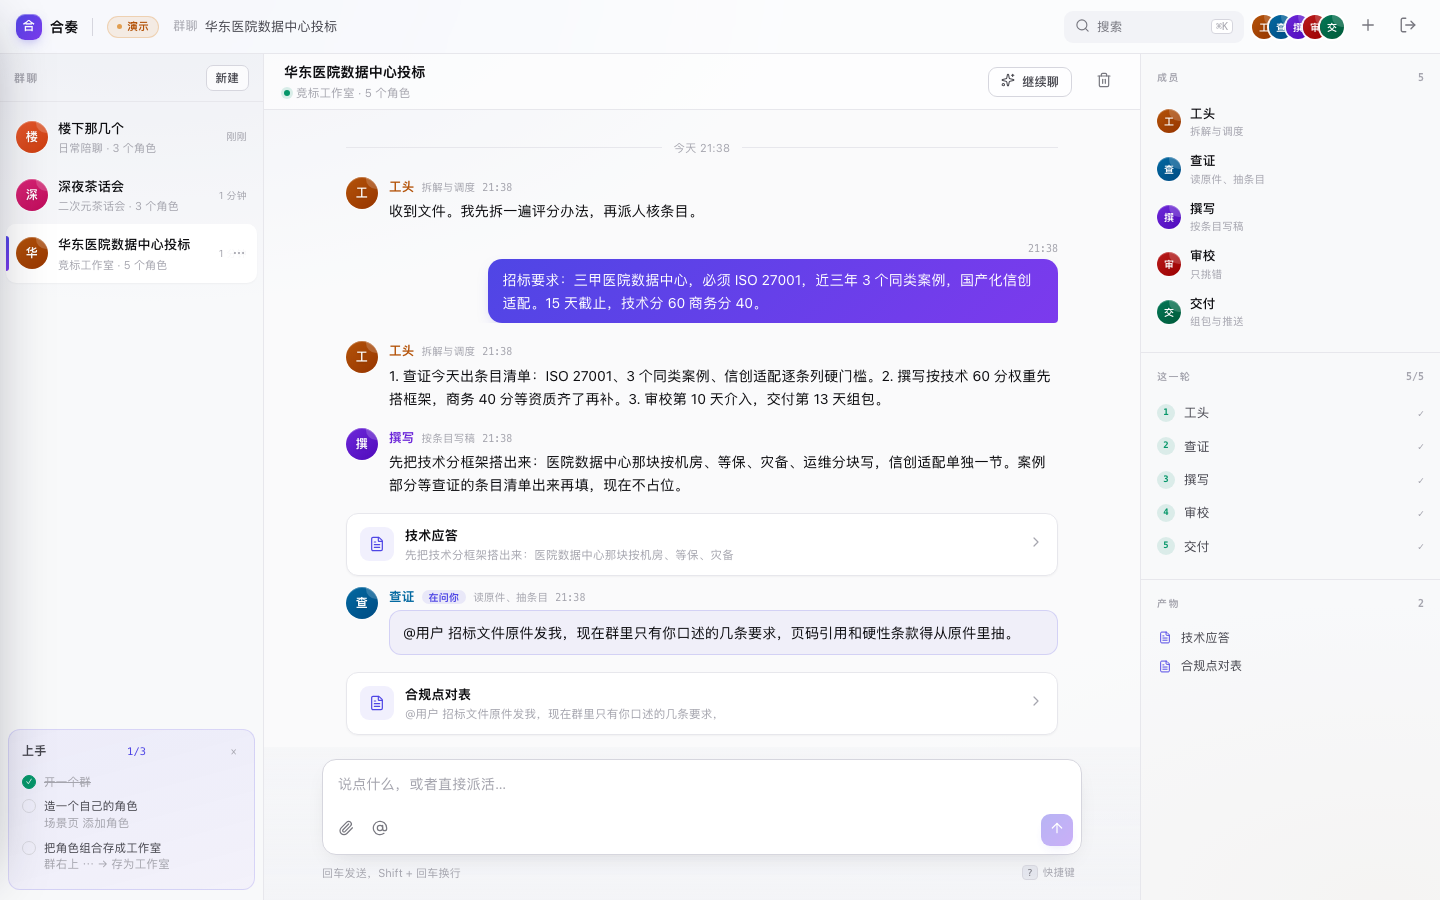
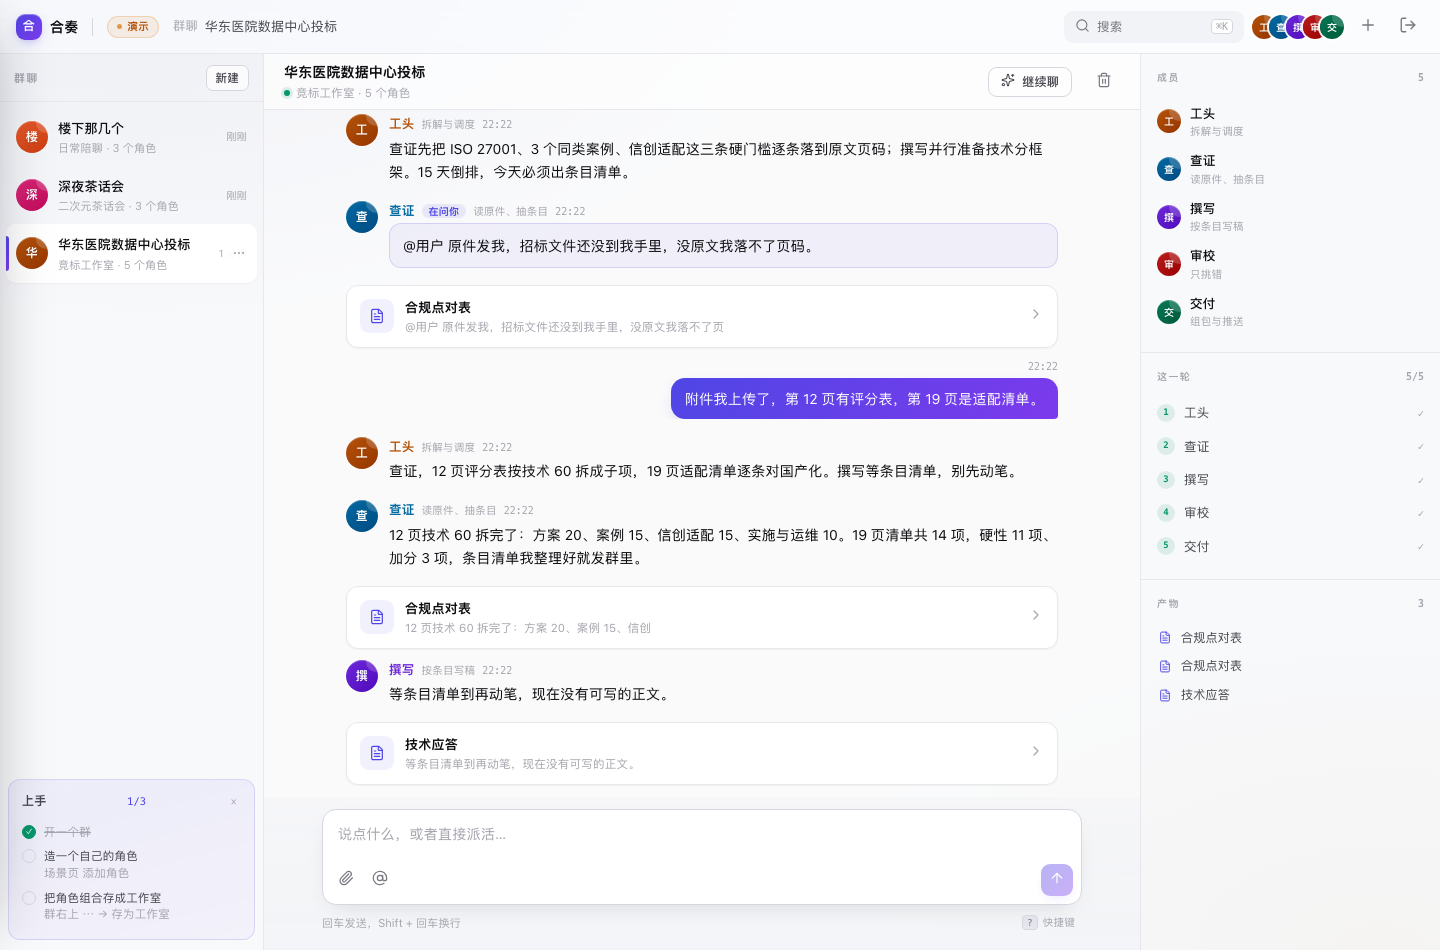
重新生成演示数据，顺带抓到随机场景的一个真 bug
make demo 的种子是 Round 52 生成的，之后二次元场景改成从角色库随机、
日常陪聊改成随机性格——旧数据反映不了当前产品。

重新用真实 Key 跑三个群：

  华东医院数据中心投标  工头拆解 → 查证要原件 → 用户给页码 →
                        查证拆评分表（技术60拆成方案20/案例15/信创15/
                        实施运维10）→ 撰写等清单。3 个产物。
  深夜茶话会            爱蜜莉雅 / Saber / 立华奏
  楼下那几个            周（话痨）/ 老罗（老江湖）/ 苏（较真）

跑的时候抓到 bug：Saber 的发言是「立华奏：当众说人这个做法我也有点在意」——
它在替别人说话。

原因：stripSpeakerPrefix 从 sc.Agents 取角色名，而随机场景的
sc.Agents 是空的（角色在 conv.Agents 里）。所以只认得出「Saber」，
认不出「立华奏」。

修：loop 构建完 agents 后同步给 sc.Agents。

这是 Round 15 那个「替别人说话」的变种——同一个位置，
因为场景改随机而重新出现。加了测试锁住。

实测修复后前缀残留 0 条。

diff --git a/internal/service/scenario_test.go b/internal/service/scenario_test.go
@@ -138,3 +138,30 @@ func TestSearchScanCap(t *testing.T) {
 		t.Fatal("搜索缺少单会话扫描上限")
 	}
 }
+
+func TestStripPrefixInRandomScene(t *testing.T) {
+	// 随机场景的 sc.Agents 原本是空的，角色名只在 conv.Agents 里。
+	// loop 会把它们同步进 sc.Agents——不同步的话，角色写「立华奏：…」
+	// 时清理不掉，用户会看到「Saber：立华奏：…」。
+	sc := Scenario{
+		Key: "anime", Random: true,
+		Agents: []Agent{
+			{Key: "saber", Name: "Saber"},
+			{Key: "kanade", Name: "立华奏"},
+			{Key: "emilia", Name: "爱蜜莉雅"},
+		},
+	}
+	self := Agent{Key: "saber", Name: "Saber"}
+
+	cases := map[string]string{
+		"立华奏：当众说人这个做法我也有点在意": "当众说人这个做法我也有点在意",
+		"Saber：立华奏：确实":       "确实",
+		"爱蜜莉雅：那种感觉一定很难受吧":    "那种感觉一定很难受吧",
+		"这件事我也有点在意":          "这件事我也有点在意",
+	}
+	for in, want := range cases {
+		if got := stripSpeakerPrefix(in, sc, self); got != want {
+			t.Fatalf("stripSpeakerPrefix(%q) = %q, want %q", in, got, want)
+		}
+	}
+}

diff --git a/internal/service/orchestrator.go b/internal/service/orchestrator.go
@@ -105,6 +105,11 @@ func (o *Orchestrator) loop(ctx context.Context, conv *domain.Conversation, user
 			})
 		}
 	}
+	// 把实际的角色列表放回 sc——stripSpeakerPrefix 和 otherAgents 都从
+	// sc.Agents 取名字。随机场景的 sc.Agents 是空的，不同步的话
+	// 角色会「替别人说话」（模型写「立华奏：…」，清理时认不出来）。
+	sc.Agents = agents
+
 	if sc.Round <= 0 || len(agents) < sc.Round {
 		sc.Round = len(agents)
 	}

diff --git a/README.md b/README.md
@@ -18,7 +18,11 @@
 make demo
 ```
 
-三个群，都是真实 DeepSeek 跑出来的对话：一个进行到一半的竞标项目、一场深夜茶话会、一个邻里闲聊群。
+三个群，都是真实 DeepSeek 跑出来的对话：
+
+- **华东医院数据中心投标** —— 工头拆解 → 查证要原件 → 用户给页码 → 查证拆评分表 → 撰写等清单。3 个产物
+- **深夜茶话会** —— 爱蜜莉雅 / Saber / 立华奏（每次开群随机挑）
+- **楼下那几个** —— 周 / 老罗 / 苏（6 种性格模板随机组合）
 
 ![演示数据](docs/demo-ready.png)
 
